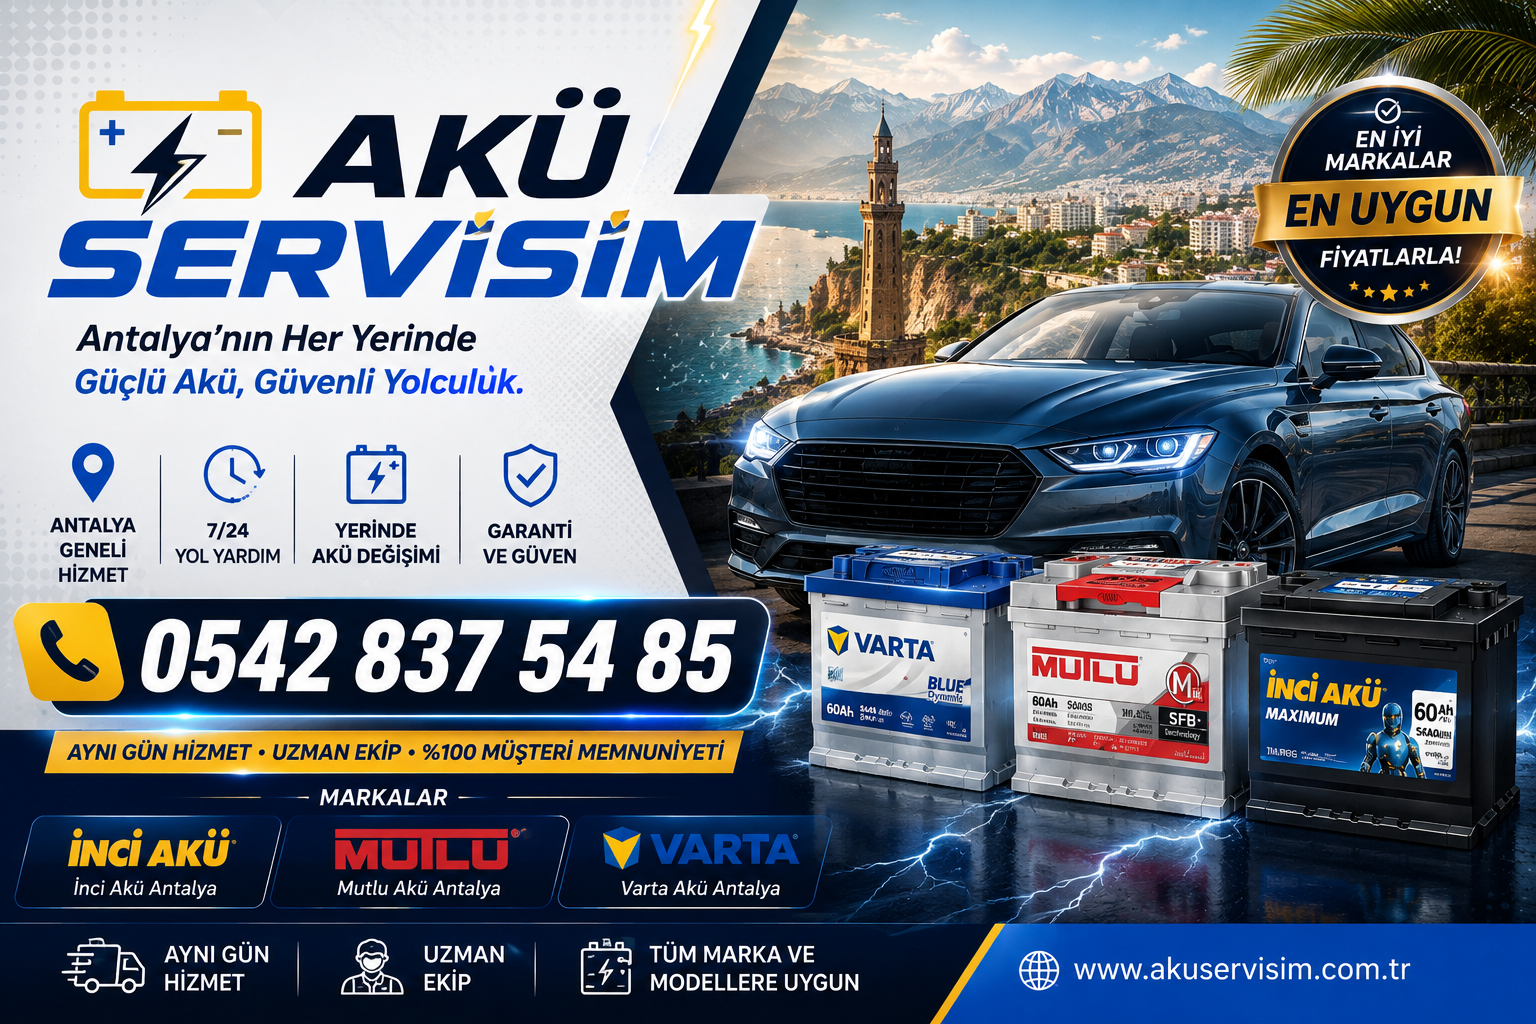
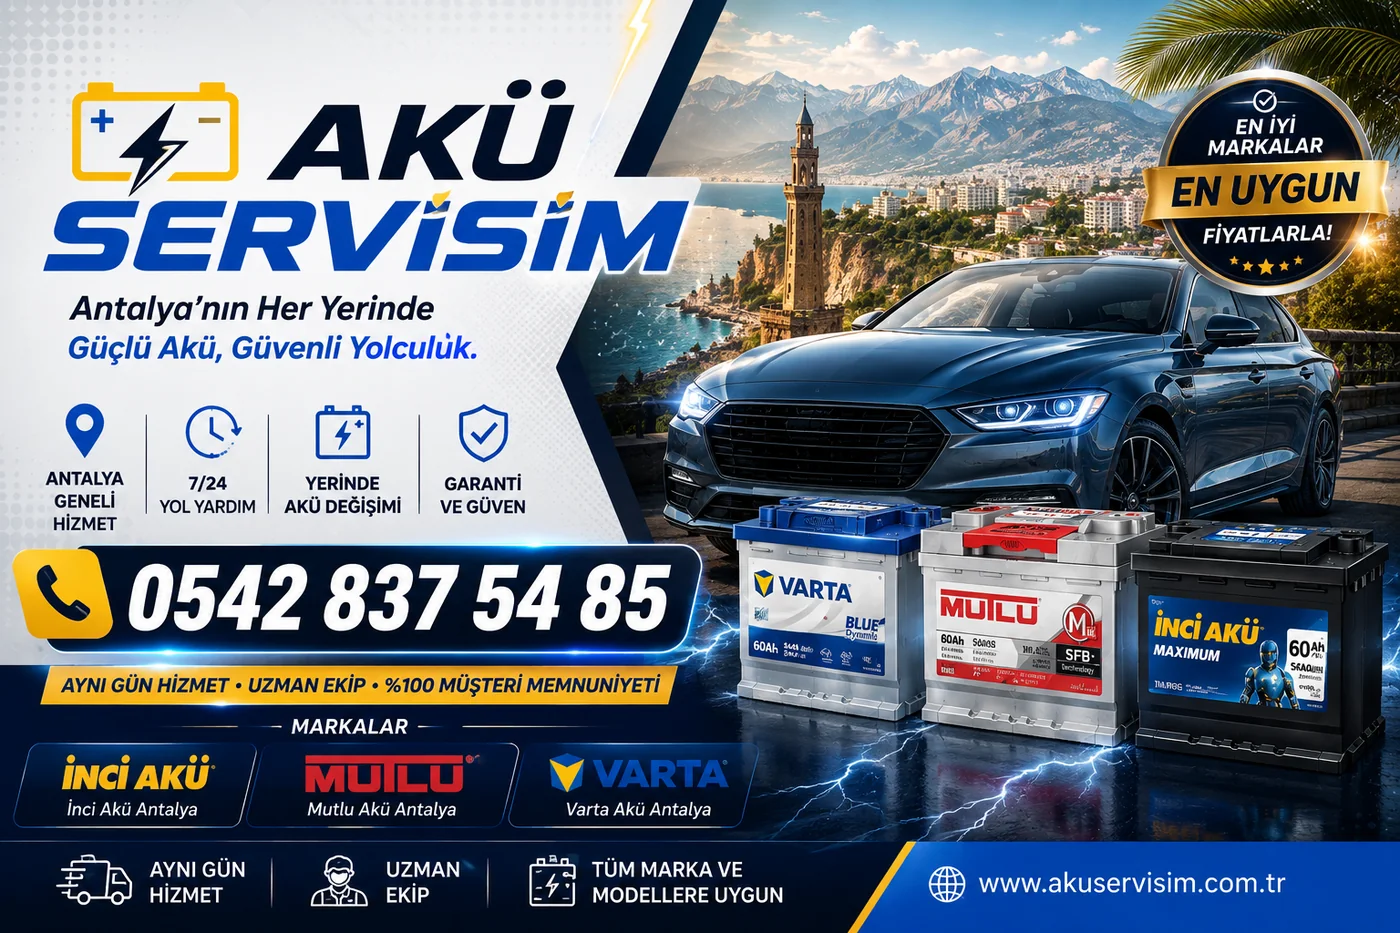
Antalya marka afişleri eklendi + optimize edildi
Yüklenen 2 görsel .webp uzantılıydı ama içerik PNG'ydi ve toplam 4,6 MB
tutuyordu. Pillow ile gerçek WebP'ye çevrildi (1400px, q84):
  akuservisi.webp    2091 KB -> 172 KB  (-%92)
  akuservisim2.webp  2396 KB -> 246 KB  (-%90)

Yerleşim:
- Ana sayfa hero altı: akuservisi.webp (koyu/altın — palete uyuyor),
  eager + fetchpriority=high, LCP adayı
- Ana sayfa markalar sonrası bant: akuservisim2.webp (açık/mavi)
- 3 marka sayfasında şerit altı: akuservisim2.webp
- Afişler tel: bağlantısı; hover'da mavi "Aramak için tıklayın" rozeti

Ayrıca og:image + twitter:image eklendi (önceden yoktu, kart summary'ydi
-> summary_large_image), LocalBusiness şemasına image/logo, Service
şemasına marka görseli.

diff --git a/index.html b/index.html
@@ -22,9 +22,14 @@
 <meta property="og:title" content="Antalya Akü Servisi — 7/24 Mobil Akü ve Yol Yardım">
 <meta property="og:description" content="Yolda, otoparkta, iş yerinizin önünde. Nerede kaldıysanız oraya geliyoruz; aküyü yerinde test edip değiştiriyoruz. Çekiciye gerek yok.">
 <meta property="og:url" content="https://akuservisim.com.tr/">
-<meta name="twitter:card" content="summary">
+<meta property="og:image" content="https://akuservisim.com.tr/images/akuservisi.webp">
+<meta property="og:image:width" content="1400">
+<meta property="og:image:height" content="933">
+<meta property="og:image:alt" content="Antalya Akü Servisi — 7/24 Mobil Akü ve Yol Yardım">
+<meta name="twitter:card" content="summary_large_image">
 <meta name="twitter:title" content="Antalya Akü Servisi — 7/24 Mobil Akü ve Yol Yardım">
 <meta name="twitter:description" content="Yolda, otoparkta, iş yerinizin önünde. Nerede kaldıysanız oraya geliyoruz; aküyü yerinde test edip değiştiriyoruz. Çekiciye gerek yok.">
+<meta name="twitter:image" content="https://akuservisim.com.tr/images/akuservisi.webp">
 <style>
 :root{
   /* lacivert + altın zemin */
@@ -296,6 +301,38 @@ section{padding:82px 0}
   font-weight:700;font-size:.9rem;transition:gap .2s;
 }
 .card:hover .more{gap:11px}
+
+/* ---------- tanıtım afişi (marka banner'ı) ---------- */
+.banner{
+  display:block;position:relative;border-radius:var(--r2);overflow:hidden;
+  border:1px solid var(--line2);background:var(--bg2);
+  box-shadow:0 26px 60px rgba(0,0,0,.5),0 0 0 1px rgba(220,180,71,.10);
+  transition:transform .35s cubic-bezier(.2,.8,.2,1),box-shadow .35s ease,border-color .3s;
+}
+.banner img{width:100%;height:auto;display:block;transition:transform .7s cubic-bezier(.2,.8,.2,1)}
+.banner:hover{transform:translateY(-4px);border-color:var(--volt-dim);
+  box-shadow:0 32px 70px rgba(0,0,0,.6),0 0 0 1px var(--glow)}
+.banner:hover img{transform:scale(1.02)}
+/* "aramak için tıklayın" rozeti — arama yolu olduğu için mavi */
+.banner::after{
+  content:"📞 Aramak için tıklayın";
+  position:absolute;top:14px;right:14px;
+  background:var(--blue);color:#fff;
+  font-size:.78rem;font-weight:700;padding:8px 15px;border-radius:99px;
+  box-shadow:0 8px 22px var(--blue-glow);
+  opacity:0;transform:translateY(-8px);transition:opacity .3s ease,transform .3s ease;
+  pointer-events:none;
+}
+.banner:hover::after{opacity:1;transform:none}
+@media(max-width:640px){
+  .banner::after{opacity:1;transform:none;font-size:.68rem;padding:6px 11px;top:9px;right:9px}
+}
+/* hero içinde afiş */
+.hero-banner{margin-top:38px;max-width:100%}
+/* bölüm arası tam genişlik afiş bandı */
+.band{padding:0 0 82px}
+.band.top{padding-top:82px}
+@media(max-width:560px){.band{padding-bottom:60px}.band.top{padding-top:60px}}
 
 /* ---------- görseller ---------- */
 .shot{
@@ -632,6 +669,8 @@ section{padding:82px 0}
   "@id": "https://akuservisim.com.tr/#isletme",
   "name": "Akü Servisim Antalya",
   "url": "https://akuservisim.com.tr/",
+  "image": "https://akuservisim.com.tr/images/akuservisi.webp",
+  "logo": "https://akuservisim.com.tr/images/akuservisi.webp",
   "telephone": "+905428375485",
   "description": "Antalya'da 7/24 mobil akü servisi, yerinde akü değişimi ve akü yol yardım hizmeti.",
   "priceRange": "₺₺",
@@ -822,6 +861,9 @@ section{padding:82px 0}
       <span class="fact"><b>Tüm Antalya</b> merkez ve ilçeler</span>
       <span class="fact"><b>Yerinde</b> test ve değişim</span>
     </div>
+    <div class="hero-banner rv rv-s">
+      <a class="banner" href="tel:+905428375485" aria-label="Telefonla ara: 0542 837 54 85"><img src="/images/akuservisi.webp" alt="Akü Servisim Antalya — 7/24 yerinde akü servisi, İnci, Mutlu ve Varta akü" width="1400" height="933" loading="eager" fetchpriority="high" decoding="async"></a>
+    </div>
   </div>
 </section>
 
@@ -893,6 +935,14 @@ section{padding:82px 0}
           <span class="more">Varta Akü modelleri <svg viewBox="0 0 24 24" fill="none" stroke="currentColor" stroke-width="2.2" stroke-linecap="round" stroke-linejoin="round" style="width:15px;height:15px"><path d="M5 12h14M13 6l6 6-6 6"/></svg></span>
         </div>
       </a>
+    </div>
+  </div>
+</section>
+
+<section class="band top">
+  <div class="wrap">
+    <div class="rv rv-s">
+      <a class="banner" href="tel:+905428375485" aria-label="Telefonla ara: 0542 837 54 85"><img src="/images/akuservisim2.webp" alt="Akü Servisim — Antalya'nın her yerinde güçlü akü, güvenli yolculuk" width="1400" height="933" loading="lazy" decoding="async"></a>
     </div>
   </div>
 </section>

diff --git a/antalya-mutlu-aku/index.html b/antalya-mutlu-aku/index.html
@@ -22,9 +22,14 @@
 <meta property="og:title" content="Mutlu Akü Antalya — Yerinde Akü Değişimi">
 <meta property="og:description" content="Aracınızın bulunduğu yerde Mutlu Akü akü değişimi. Antalya genelinde 7/24.">
 <meta property="og:url" content="https://akuservisim.com.tr/antalya-mutlu-aku/">
-<meta name="twitter:card" content="summary">
+<meta property="og:image" content="https://akuservisim.com.tr/images/akuservisim2.webp">
+<meta property="og:image:width" content="1400">
+<meta property="og:image:height" content="933">
+<meta property="og:image:alt" content="Mutlu Akü Antalya — Yerinde Akü Değişimi">
+<meta name="twitter:card" content="summary_large_image">
 <meta name="twitter:title" content="Mutlu Akü Antalya — Yerinde Akü Değişimi">
 <meta name="twitter:description" content="Aracınızın bulunduğu yerde Mutlu Akü akü değişimi. Antalya genelinde 7/24.">
+<meta name="twitter:image" content="https://akuservisim.com.tr/images/akuservisim2.webp">
 <style>
 :root{
   /* lacivert + altın zemin */
@@ -296,6 +301,38 @@ section{padding:82px 0}
   font-weight:700;font-size:.9rem;transition:gap .2s;
 }
 .card:hover .more{gap:11px}
+
+/* ---------- tanıtım afişi (marka banner'ı) ---------- */
+.banner{
+  display:block;position:relative;border-radius:var(--r2);overflow:hidden;
+  border:1px solid var(--line2);background:var(--bg2);
+  box-shadow:0 26px 60px rgba(0,0,0,.5),0 0 0 1px rgba(220,180,71,.10);
+  transition:transform .35s cubic-bezier(.2,.8,.2,1),box-shadow .35s ease,border-color .3s;
+}
+.banner img{width:100%;height:auto;display:block;transition:transform .7s cubic-bezier(.2,.8,.2,1)}
+.banner:hover{transform:translateY(-4px);border-color:var(--volt-dim);
+  box-shadow:0 32px 70px rgba(0,0,0,.6),0 0 0 1px var(--glow)}
+.banner:hover img{transform:scale(1.02)}
+/* "aramak için tıklayın" rozeti — arama yolu olduğu için mavi */
+.banner::after{
+  content:"📞 Aramak için tıklayın";
+  position:absolute;top:14px;right:14px;
+  background:var(--blue);color:#fff;
+  font-size:.78rem;font-weight:700;padding:8px 15px;border-radius:99px;
+  box-shadow:0 8px 22px var(--blue-glow);
+  opacity:0;transform:translateY(-8px);transition:opacity .3s ease,transform .3s ease;
+  pointer-events:none;
+}
+.banner:hover::after{opacity:1;transform:none}
+@media(max-width:640px){
+  .banner::after{opacity:1;transform:none;font-size:.68rem;padding:6px 11px;top:9px;right:9px}
+}
+/* hero içinde afiş */
+.hero-banner{margin-top:38px;max-width:100%}
+/* bölüm arası tam genişlik afiş bandı */
+.band{padding:0 0 82px}
+.band.top{padding-top:82px}
+@media(max-width:560px){.band{padding-bottom:60px}.band.top{padding-top:60px}}
 
 /* ---------- görseller ---------- */
 .shot{
@@ -665,6 +702,7 @@ section{padding:82px 0}
     }
   ],
   "url": "https://akuservisim.com.tr/antalya-mutlu-aku/",
+  "image": "https://akuservisim.com.tr/images/mutlu-aku-1.webp",
   "brand": {
     "@type": "Brand",
     "name": "Mutlu Akü"
@@ -735,6 +773,14 @@ section{padding:82px 0}
     <a href="tel:+905428375485"><svg viewBox="0 0 24 24" fill="none" stroke="currentColor" stroke-width="1.9" stroke-linecap="round" stroke-linejoin="round"><path d="M13 2L4.09 12.97 11 14l0 8 8.91-10.97L13 10z"/></svg>0542 837 54 85</a>
   </div>
 </div>
+
+<section class="band top">
+  <div class="wrap">
+    <div class="rv rv-s">
+      <a class="banner" href="tel:+905428375485" aria-label="Telefonla ara: 0542 837 54 85"><img src="/images/akuservisim2.webp" alt="Mutlu Akü — Akü Servisim Antalya, yerinde akü değişimi" width="1400" height="933" loading="lazy" decoding="async"></a>
+    </div>
+  </div>
+</section>
 
 <section>
   <div class="wrap">

diff --git a/antalya-varta-aku/index.html b/antalya-varta-aku/index.html
@@ -22,9 +22,14 @@
 <meta property="og:title" content="Varta Akü Antalya — Yerinde Akü Değişimi">
 <meta property="og:description" content="Aracınızın bulunduğu yerde Varta Akü akü değişimi. Antalya genelinde 7/24.">
 <meta property="og:url" content="https://akuservisim.com.tr/antalya-varta-aku/">
-<meta name="twitter:card" content="summary">
+<meta property="og:image" content="https://akuservisim.com.tr/images/akuservisim2.webp">
+<meta property="og:image:width" content="1400">
+<meta property="og:image:height" content="933">
+<meta property="og:image:alt" content="Varta Akü Antalya — Yerinde Akü Değişimi">
+<meta name="twitter:card" content="summary_large_image">
 <meta name="twitter:title" content="Varta Akü Antalya — Yerinde Akü Değişimi">
 <meta name="twitter:description" content="Aracınızın bulunduğu yerde Varta Akü akü değişimi. Antalya genelinde 7/24.">
+<meta name="twitter:image" content="https://akuservisim.com.tr/images/akuservisim2.webp">
 <style>
 :root{
   /* lacivert + altın zemin */
@@ -296,6 +301,38 @@ section{padding:82px 0}
   font-weight:700;font-size:.9rem;transition:gap .2s;
 }
 .card:hover .more{gap:11px}
+
+/* ---------- tanıtım afişi (marka banner'ı) ---------- */
+.banner{
+  display:block;position:relative;border-radius:var(--r2);overflow:hidden;
+  border:1px solid var(--line2);background:var(--bg2);
+  box-shadow:0 26px 60px rgba(0,0,0,.5),0 0 0 1px rgba(220,180,71,.10);
+  transition:transform .35s cubic-bezier(.2,.8,.2,1),box-shadow .35s ease,border-color .3s;
+}
+.banner img{width:100%;height:auto;display:block;transition:transform .7s cubic-bezier(.2,.8,.2,1)}
+.banner:hover{transform:translateY(-4px);border-color:var(--volt-dim);
+  box-shadow:0 32px 70px rgba(0,0,0,.6),0 0 0 1px var(--glow)}
+.banner:hover img{transform:scale(1.02)}
+/* "aramak için tıklayın" rozeti — arama yolu olduğu için mavi */
+.banner::after{
+  content:"📞 Aramak için tıklayın";
+  position:absolute;top:14px;right:14px;
+  background:var(--blue);color:#fff;
+  font-size:.78rem;font-weight:700;padding:8px 15px;border-radius:99px;
+  box-shadow:0 8px 22px var(--blue-glow);
+  opacity:0;transform:translateY(-8px);transition:opacity .3s ease,transform .3s ease;
+  pointer-events:none;
+}
+.banner:hover::after{opacity:1;transform:none}
+@media(max-width:640px){
+  .banner::after{opacity:1;transform:none;font-size:.68rem;padding:6px 11px;top:9px;right:9px}
+}
+/* hero içinde afiş */
+.hero-banner{margin-top:38px;max-width:100%}
+/* bölüm arası tam genişlik afiş bandı */
+.band{padding:0 0 82px}
+.band.top{padding-top:82px}
+@media(max-width:560px){.band{padding-bottom:60px}.band.top{padding-top:60px}}
 
 /* ---------- görseller ---------- */
 .shot{
@@ -665,6 +702,7 @@ section{padding:82px 0}
     }
   ],
   "url": "https://akuservisim.com.tr/antalya-varta-aku/",
+  "image": "https://akuservisim.com.tr/images/varta-aku-1.webp",
   "brand": {
     "@type": "Brand",
     "name": "Varta Akü"
@@ -735,6 +773,14 @@ section{padding:82px 0}
     <a href="tel:+905428375485"><svg viewBox="0 0 24 24" fill="none" stroke="currentColor" stroke-width="1.9" stroke-linecap="round" stroke-linejoin="round"><path d="M13 2L4.09 12.97 11 14l0 8 8.91-10.97L13 10z"/></svg>0542 837 54 85</a>
   </div>
 </div>
+
+<section class="band top">
+  <div class="wrap">
+    <div class="rv rv-s">
+      <a class="banner" href="tel:+905428375485" aria-label="Telefonla ara: 0542 837 54 85"><img src="/images/akuservisim2.webp" alt="Varta Akü — Akü Servisim Antalya, yerinde akü değişimi" width="1400" height="933" loading="lazy" decoding="async"></a>
+    </div>
+  </div>
+</section>
 
 <section>
   <div class="wrap">

diff --git a/antalya-inci-aku/index.html b/antalya-inci-aku/index.html
@@ -22,9 +22,14 @@
 <meta property="og:title" content="İnci Akü Antalya — Yerinde Akü Değişimi">
 <meta property="og:description" content="Aracınızın bulunduğu yerde İnci Akü akü değişimi. Antalya genelinde 7/24.">
 <meta property="og:url" content="https://akuservisim.com.tr/antalya-inci-aku/">
-<meta name="twitter:card" content="summary">
+<meta property="og:image" content="https://akuservisim.com.tr/images/akuservisim2.webp">
+<meta property="og:image:width" content="1400">
+<meta property="og:image:height" content="933">
+<meta property="og:image:alt" content="İnci Akü Antalya — Yerinde Akü Değişimi">
+<meta name="twitter:card" content="summary_large_image">
 <meta name="twitter:title" content="İnci Akü Antalya — Yerinde Akü Değişimi">
 <meta name="twitter:description" content="Aracınızın bulunduğu yerde İnci Akü akü değişimi. Antalya genelinde 7/24.">
+<meta name="twitter:image" content="https://akuservisim.com.tr/images/akuservisim2.webp">
 <style>
 :root{
   /* lacivert + altın zemin */
@@ -296,6 +301,38 @@ section{padding:82px 0}
   font-weight:700;font-size:.9rem;transition:gap .2s;
 }
 .card:hover .more{gap:11px}
+
+/* ---------- tanıtım afişi (marka banner'ı) ---------- */
+.banner{
+  display:block;position:relative;border-radius:var(--r2);overflow:hidden;
+  border:1px solid var(--line2);background:var(--bg2);
+  box-shadow:0 26px 60px rgba(0,0,0,.5),0 0 0 1px rgba(220,180,71,.10);
+  transition:transform .35s cubic-bezier(.2,.8,.2,1),box-shadow .35s ease,border-color .3s;
+}
+.banner img{width:100%;height:auto;display:block;transition:transform .7s cubic-bezier(.2,.8,.2,1)}
+.banner:hover{transform:translateY(-4px);border-color:var(--volt-dim);
+  box-shadow:0 32px 70px rgba(0,0,0,.6),0 0 0 1px var(--glow)}
+.banner:hover img{transform:scale(1.02)}
+/* "aramak için tıklayın" rozeti — arama yolu olduğu için mavi */
+.banner::after{
+  content:"📞 Aramak için tıklayın";
+  position:absolute;top:14px;right:14px;
+  background:var(--blue);color:#fff;
+  font-size:.78rem;font-weight:700;padding:8px 15px;border-radius:99px;
+  box-shadow:0 8px 22px var(--blue-glow);
+  opacity:0;transform:translateY(-8px);transition:opacity .3s ease,transform .3s ease;
+  pointer-events:none;
+}
+.banner:hover::after{opacity:1;transform:none}
+@media(max-width:640px){
+  .banner::after{opacity:1;transform:none;font-size:.68rem;padding:6px 11px;top:9px;right:9px}
+}
+/* hero içinde afiş */
+.hero-banner{margin-top:38px;max-width:100%}
+/* bölüm arası tam genişlik afiş bandı */
+.band{padding:0 0 82px}
+.band.top{padding-top:82px}
+@media(max-width:560px){.band{padding-bottom:60px}.band.top{padding-top:60px}}
 
 /* ---------- görseller ---------- */
 .shot{
@@ -665,6 +702,7 @@ section{padding:82px 0}
     }
   ],
   "url": "https://akuservisim.com.tr/antalya-inci-aku/",
+  "image": "https://akuservisim.com.tr/images/inci-aku-1.webp",
   "brand": {
     "@type": "Brand",
     "name": "İnci Akü"
@@ -735,6 +773,14 @@ section{padding:82px 0}
     <a href="tel:+905428375485"><svg viewBox="0 0 24 24" fill="none" stroke="currentColor" stroke-width="1.9" stroke-linecap="round" stroke-linejoin="round"><path d="M13 2L4.09 12.97 11 14l0 8 8.91-10.97L13 10z"/></svg>0542 837 54 85</a>
   </div>
 </div>
+
+<section class="band top">
+  <div class="wrap">
+    <div class="rv rv-s">
+      <a class="banner" href="tel:+905428375485" aria-label="Telefonla ara: 0542 837 54 85"><img src="/images/akuservisim2.webp" alt="İnci Akü — Akü Servisim Antalya, yerinde akü değişimi" width="1400" height="933" loading="lazy" decoding="async"></a>
+    </div>
+  </div>
+</section>
 
 <section>
   <div class="wrap">
